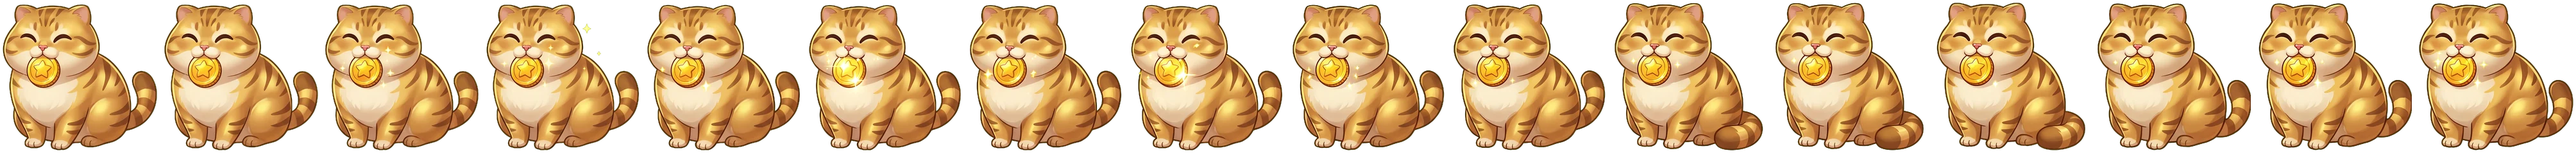
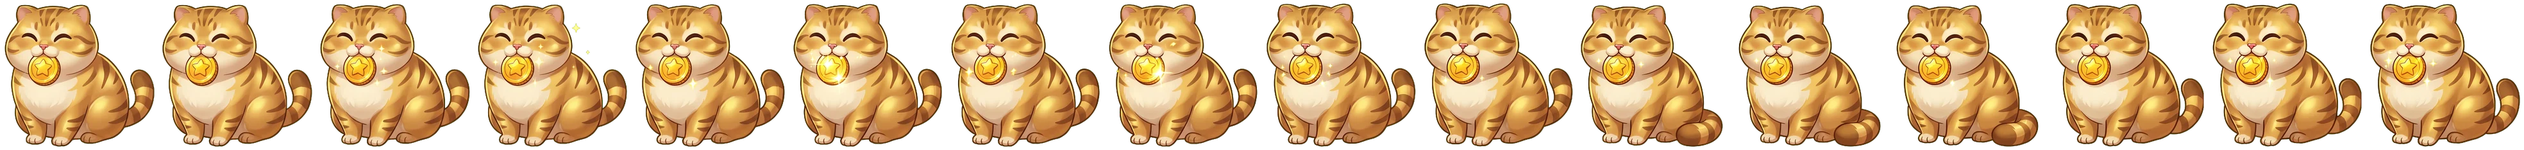
feat(assistant): 胖貓每幀大小統一、使用期限進度條
- 精靈條依身體主幹面積將每幀縮放到同一大小（各動作共用基準），身體重心置中、腳底貼齊
- hero 使用期限改為金色進度條＋「剩 X 天 X 小時 X 分」，剩 10% 以下改警示色

diff --git a/src/assistant/views/AssistantHome.tsx b/src/assistant/views/AssistantHome.tsx
@@ -5,7 +5,7 @@ import { fetchTopRooms, type AssistantMe, type RoomsResponse } from '../../api/a
 import { LightPillars } from '../LightPillars.js';
 import { HeroCat } from '../HeroCat.js';
 import { COLLECT_INTRO_MS, CollectingLoader } from '../CollectingLoader.js';
-import { fmtAgo, fmtClock, fmtInt, fmtRemaining, fmtRtp, fmtStamp, slotIconFor } from '../format.js';
+import { fmtAgo, fmtClock, fmtInt, fmtRemainingDetail, fmtRtp, fmtStamp, slotIconFor } from '../format.js';
 import type { AssistantView } from '../AssistantApp.js';
 
 const RANK = ['1', '2', '3', '4', '5'];
@@ -85,9 +85,11 @@ export function AssistantHome({
           </h1>
           <p className="aa-hero-sub">ATG 房間整理 · 本金條件篩選</p>
           <HeroCat />
-          <p className="aa-hero-pass">
-            {!me ? ' ' : active ? `使用中 · 剩 ${fmtRemaining(me.pass.remainingSeconds)}` : `目前積分 ${fmtInt(me.points)}`}
-          </p>
+          {me && active ? (
+            <PassBar me={me} />
+          ) : (
+            <p className="aa-hero-pass">{me ? `目前積分 ${fmtInt(me.points)}` : ' '}</p>
+          )}
         </div>
       </section>
 
@@ -168,6 +170,40 @@ export function AssistantHome({
 
         <p className="aa-disclaimer">數據僅供參考，不保證獲利</p>
       </section>
+    </div>
+  );
+}
+
+/** 使用期限進度條：剩餘時間 ÷ 本次開通總長（startsAt → expiresAt），每 30 秒更新 */
+function PassBar({ me }: { me: AssistantMe }) {
+  const [loadedAt] = useState(() => Date.now());
+  const [tick, setTick] = useState(() => Date.now());
+
+  useEffect(() => {
+    const t = window.setInterval(() => setTick(Date.now()), 30_000);
+    return () => window.clearInterval(t);
+  }, []);
+
+  const { startsAt, expiresAt, remainingSeconds } = me.pass;
+  const remaining = Math.max(0, remainingSeconds - Math.floor((tick - loadedAt) / 1000));
+  const total = startsAt && expiresAt ? (Date.parse(expiresAt) - Date.parse(startsAt)) / 1000 : remaining;
+  const ratio = total > 0 ? Math.min(1, remaining / total) : 0;
+  const pct = Math.round(ratio * 100);
+
+  return (
+    <div className={`aa-passbar${ratio <= 0.1 ? ' is-low' : ''}`}>
+      <span
+        className="aa-passbar-track"
+        role="progressbar"
+        aria-label="使用期限剩餘"
+        aria-valuemin={0}
+        aria-valuemax={100}
+        aria-valuenow={pct}
+        aria-valuetext={`剩 ${fmtRemainingDetail(remaining)}`}
+      >
+        <span className="aa-passbar-fill" style={{ width: `${Math.max(pct, remaining > 0 ? 2 : 0)}%` }} />
+      </span>
+      <span className="aa-passbar-text">剩 {fmtRemainingDetail(remaining)}</span>
     </div>
   );
 }

diff --git a/src/assistant/assistant.css b/src/assistant/assistant.css
@@ -211,7 +211,7 @@ body:has(.aa-stage) {
   display: flex;
   align-items: flex-end;
   justify-content: center;
-  height: 126px;
+  height: 142px;
   margin-top: 2px;
   filter: drop-shadow(0 6px 14px rgba(0, 0, 0, 0.55)) drop-shadow(0 0 18px rgba(232, 194, 116, 0.18));
 }
@@ -289,6 +289,70 @@ body:has(.aa-stage) {
   color: var(--aa-muted);
   font-size: 13px;
   font-variant-numeric: tabular-nums;
+}
+
+/* 使用期限進度條 */
+.aa-passbar {
+  display: flex;
+  align-items: center;
+  gap: 10px;
+  width: min(100%, 300px);
+}
+
+.aa-passbar-track {
+  position: relative;
+  flex: 1;
+  height: 6px;
+  overflow: hidden;
+  border-radius: 3px;
+  background: rgba(232, 194, 116, 0.16);
+  box-shadow: inset 0 0 0 1px rgba(232, 194, 116, 0.18);
+}
+
+.aa-passbar-fill {
+  position: absolute;
+  inset: 0 auto 0 0;
+  overflow: hidden;
+  border-radius: 3px;
+  background: linear-gradient(90deg, var(--aa-gold-deep), var(--aa-gold-hi));
+  box-shadow: 0 0 10px rgba(232, 194, 116, 0.6);
+  transition: width 600ms var(--aa-ease);
+}
+
+/* 進度條上緩慢流過的高光 */
+.aa-passbar-fill::after {
+  position: absolute;
+  inset: 0;
+  content: '';
+  background: linear-gradient(90deg, transparent, rgba(255, 248, 225, 0.7), transparent);
+  transform: translateX(-100%);
+  animation: aa-passbar-shine 2.8s ease-in-out infinite;
+}
+
+@keyframes aa-passbar-shine {
+  60%,
+  100% {
+    transform: translateX(100%);
+  }
+}
+
+.aa-passbar-text {
+  flex-shrink: 0;
+  color: var(--aa-gold-hi);
+  font-size: 13px;
+  font-weight: 700;
+  font-variant-numeric: tabular-nums;
+  white-space: nowrap;
+}
+
+/* 剩餘 10% 以下改用警示色 */
+.aa-passbar.is-low .aa-passbar-fill {
+  background: linear-gradient(90deg, #c4583f, var(--aa-danger));
+  box-shadow: 0 0 10px rgba(255, 161, 144, 0.5);
+}
+
+.aa-passbar.is-low .aa-passbar-text {
+  color: var(--aa-danger);
 }
 
 .aa-entries {
@@ -1400,7 +1464,8 @@ fieldset.aa-field {
   .aa-streaks {
     display: none;
   }
-  .aa-cat-strip {
+  .aa-cat-strip,
+  .aa-passbar-fill::after {
     animation: none;
   }
   .aa-pillars-rise,

diff --git a/src/assistant/HeroCat.tsx b/src/assistant/HeroCat.tsx
@@ -1,7 +1,8 @@
 import { useEffect, useState } from 'react';
 
 // Hero 吉祥物：金色胖貓，5 種動作輪流播放（每個動作為 16 幀橫向精靈條，public/assets/assistant/cat/）。
-// 精靈條每幀尺寸為 2x 像素；顯示時除以 2，所以各動作的貓大小一致、底部貼齊同一條地面。
+// 精靈條每幀尺寸為 2x 像素；顯示時除以 2。切幀時已依身體主幹面積把每一幀縮放到同一個大小、
+// 以身體重心置中、腳底貼齊地面，所以換動作或同一動作中貓的大小都一致。
 
 type ActionName = 'sit' | 'lounge' | 'stretch' | 'scratch' | 'coin';
 
@@ -16,11 +17,11 @@ interface Action {
 }
 
 const ACTIONS: Record<ActionName, Action> = {
-  sit: { w: 252, h: 234, dur: 2.6, loops: 2 },
-  lounge: { w: 250, h: 168, dur: 3, loops: 2 },
-  stretch: { w: 263, h: 246, dur: 2.6, loops: 1 },
-  scratch: { w: 258, h: 244, dur: 2, loops: 1 },
-  coin: { w: 251, h: 239, dur: 2.4, loops: 2 },
+  sit: { w: 256, h: 239, dur: 2.6, loops: 2 },
+  lounge: { w: 326, h: 215, dur: 3, loops: 2 },
+  stretch: { w: 314, h: 283, dur: 2.6, loops: 1 },
+  scratch: { w: 264, h: 247, dur: 2, loops: 1 },
+  coin: { w: 246, h: 234, dur: 2.4, loops: 2 },
 };
 
 const NAMES = Object.keys(ACTIONS) as ActionName[];

diff --git a/src/assistant/format.ts b/src/assistant/format.ts
@@ -42,6 +42,15 @@ export function fmtRemaining(seconds: number) {
   return [d && `${d} 天`, h && `${h} 小時`, d === 0 && m > 0 && `${m} 分`].filter(Boolean).join(' ') || '不到 1 分';
 }
 
+/** 剩餘時間（含分鐘）：「2 天 3 小時 15 分」「45 分」 */
+export function fmtRemainingDetail(seconds: number) {
+  if (seconds <= 0) return '已到期';
+  const d = Math.floor(seconds / 86_400);
+  const h = Math.floor((seconds % 86_400) / 3600);
+  const m = Math.floor((seconds % 3600) / 60);
+  return [d && `${d} 天`, h && `${h} 小時`, m && `${m} 分`].filter(Boolean).join(' ') || '不到 1 分';
+}
+
 /** 房號 → 25 款機台圖示之一（同一房號永遠同一張圖） */
 export function slotIconFor(roomNo: string) {
   let h = 0;
